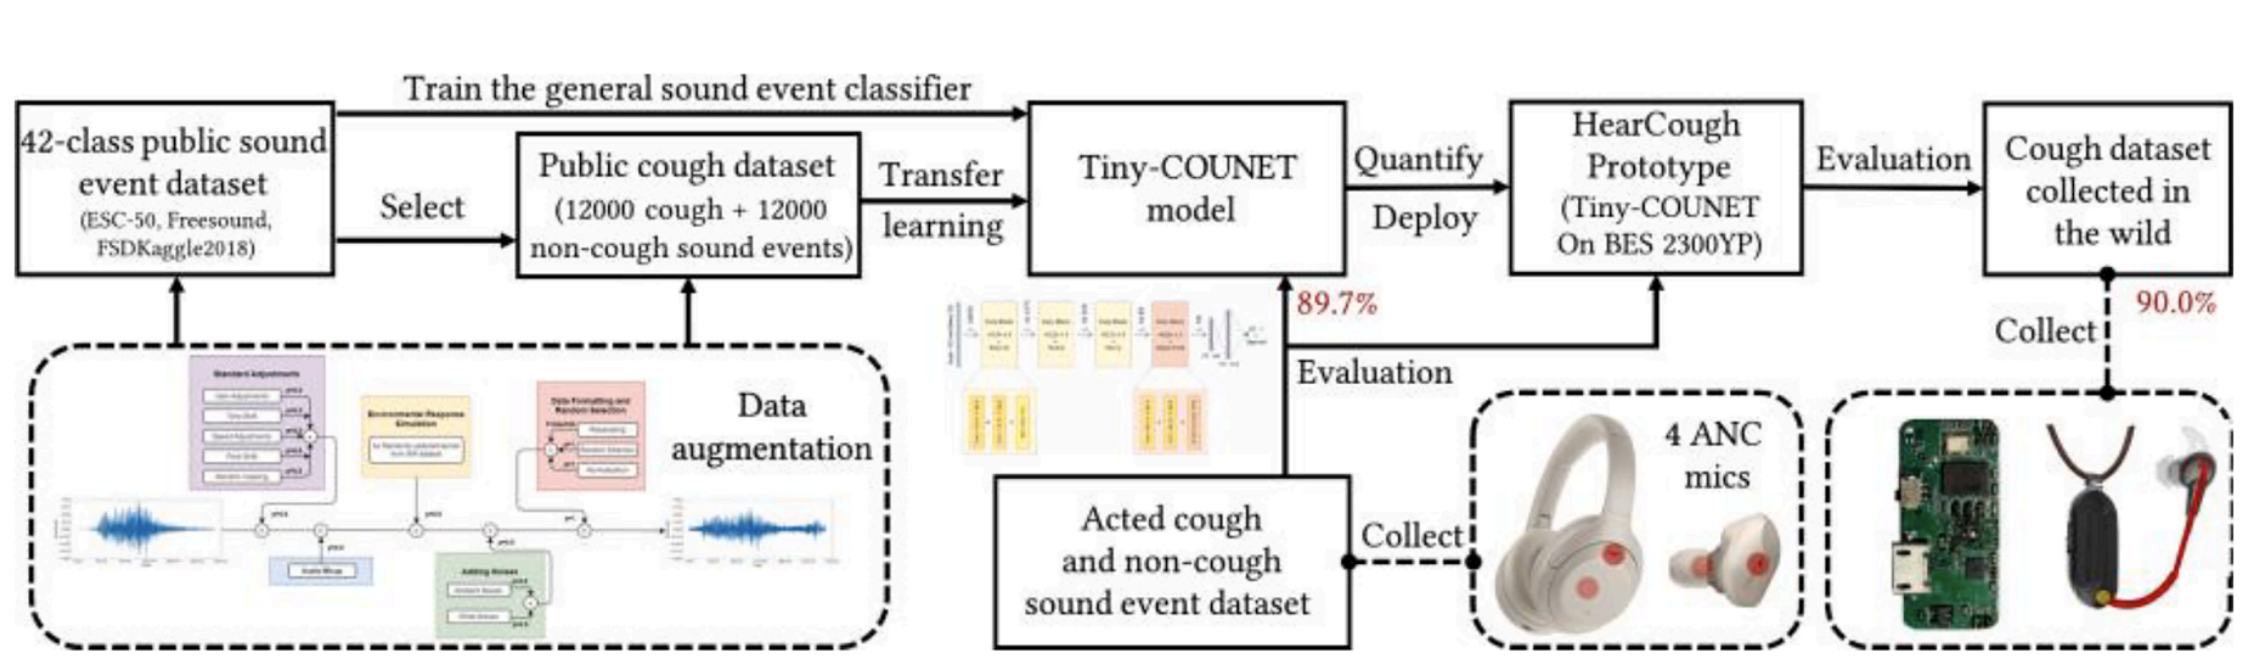
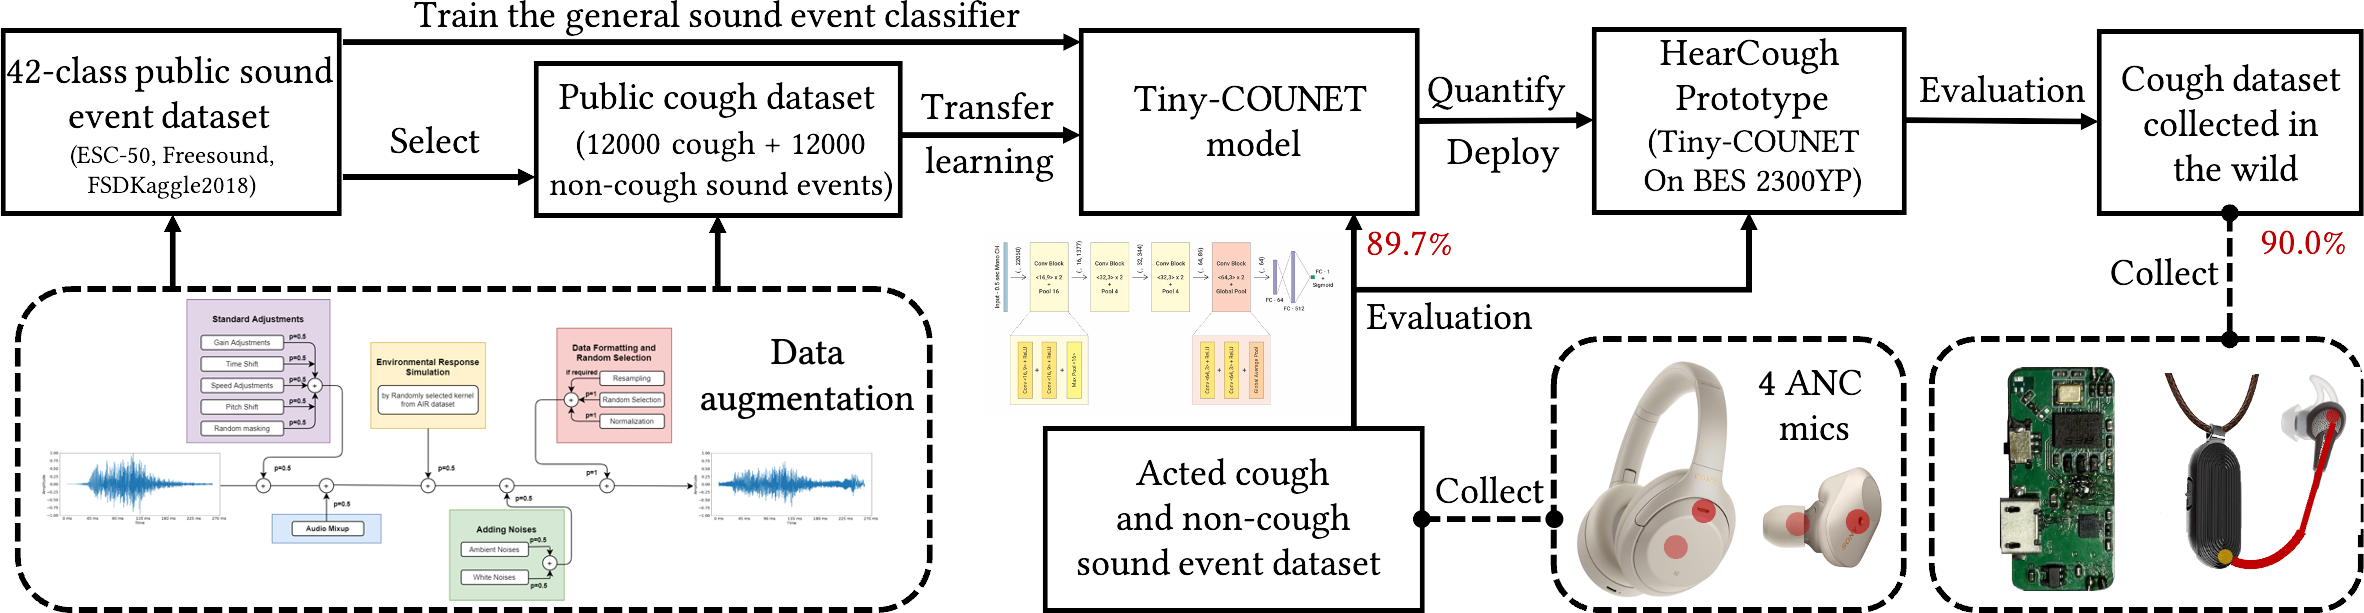
update_computing_with_smart_rings

Changed region(s): [[0.0, 0.0, 1.0, 1.0]]

diff --git a/_pages/about.md b/_pages/about.md
@@ -17,7 +17,7 @@ redirect_from:
 
 <span class='anchor' id='about-me'></span>
 
-Xiyuxing Zhang is a Ph.D. student in the [Pervasive Interaction Lab](https://pi.cs.tsinghua.edu.cn/) at Tsinghua University, advised by [Prof. Yuanchun Shi](https://scholar.google.com/citations?user=TZm3-pwAAAAJ), [A/Prof. Yuntao Wang](https://scholar.google.com/citations?user=kHpwoAUAAAAJ). He is also honored to collaborate with [Prof. Justin Chan](https://scholar.google.com/citations?user=dpyzXwMAAAAJ) in the [Semantic Signal Group](https://semanticsignals.com/) at Carnegie Mellon University. His research focuses on ubiquitous computing and HCI with healthcare using wearables. 
+Xiyuxing Zhang is a Ph.D. student in the [Pervasive Interaction Lab](https://pi.cs.tsinghua.edu.cn/) at Tsinghua University, advised by [Prof. Yuanchun Shi](https://scholar.google.com/citations?user=TZm3-pwAAAAJ) and [A/Prof. Yuntao Wang](https://scholar.google.com/citations?user=kHpwoAUAAAAJ). He is also honored to collaborate with [Prof. Justin Chan](https://scholar.google.com/citations?user=dpyzXwMAAAAJ) in the [Semantic Signal Group](https://semanticsignals.com/) at Carnegie Mellon University. His research focuses on ubiquitous computing and HCI with healthcare using wearables. 
 
 His research interest includes:
 
@@ -116,6 +116,26 @@ Yuntao Wang\*, **Xiyuxing Zhang\***(\*Co-first Author), Jay M Chakalasiya\*, Xuh
 
 </div>
 </div>
+
+<div class='paper-box'><div class='paper-box-image'><div><div class="badge">IMWUT</div><img src='../images/EarSAVAS.png' alt="sym" width="100%"></div></div>
+<div class='paper-box-text' markdown="1">
+
+## Computing with Smart Rings: A Systematic Literature Review
+
+Zeyu Wang, Ruotong Yu, Xiangyang Wang, Jiexin Ding, Jiankai Tang, Jun Fang, Zhe He, Zhuojun Li, Tobias Röddiger, Weiye Xu, **Xiyuxing Zhang**, Nan Gao, Chun Yu, Yuanchun Shi, Yuntao Wang
+
+[IMWUT](http://imwut.acm.org/)
+
+<div class="extra-links">
+    <a class="_blank" href="https://dl.acm.org/doi/10.1145/3659616" >
+        <i class="fas fa-newspaper" aria-hidden="true"></i> Paper
+    </a>
+</div>
+
+</div>
+</div>
+
+
 <!-- --------------------------------------------------------------------------------------------------------------- -->
 
 #### CONFERENCE PUBLICATIONS
